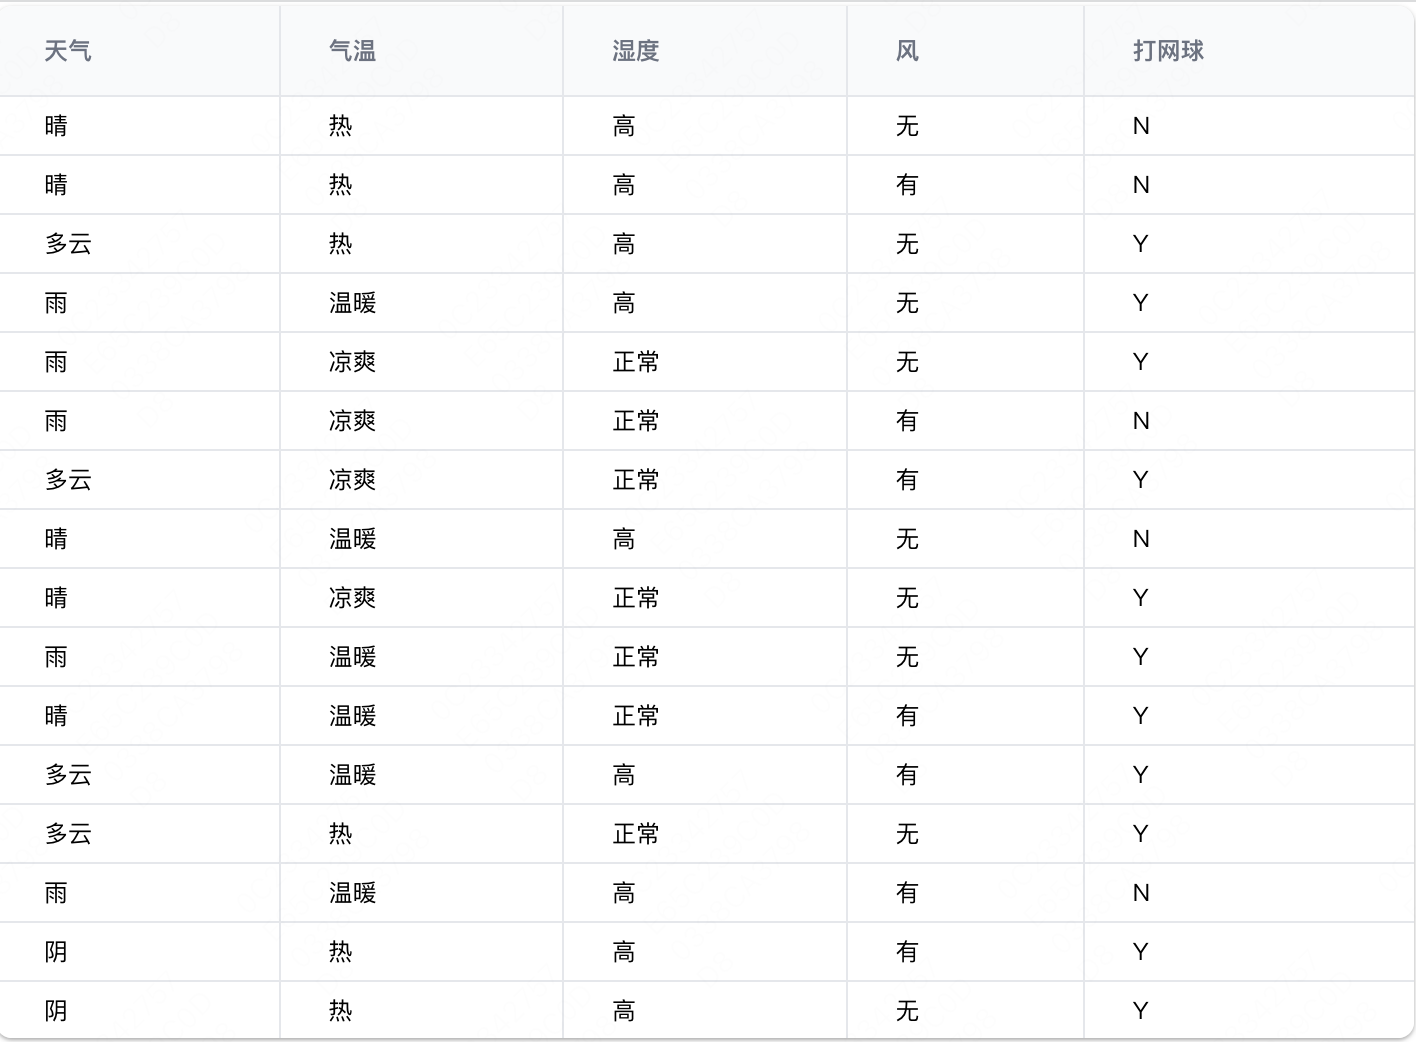
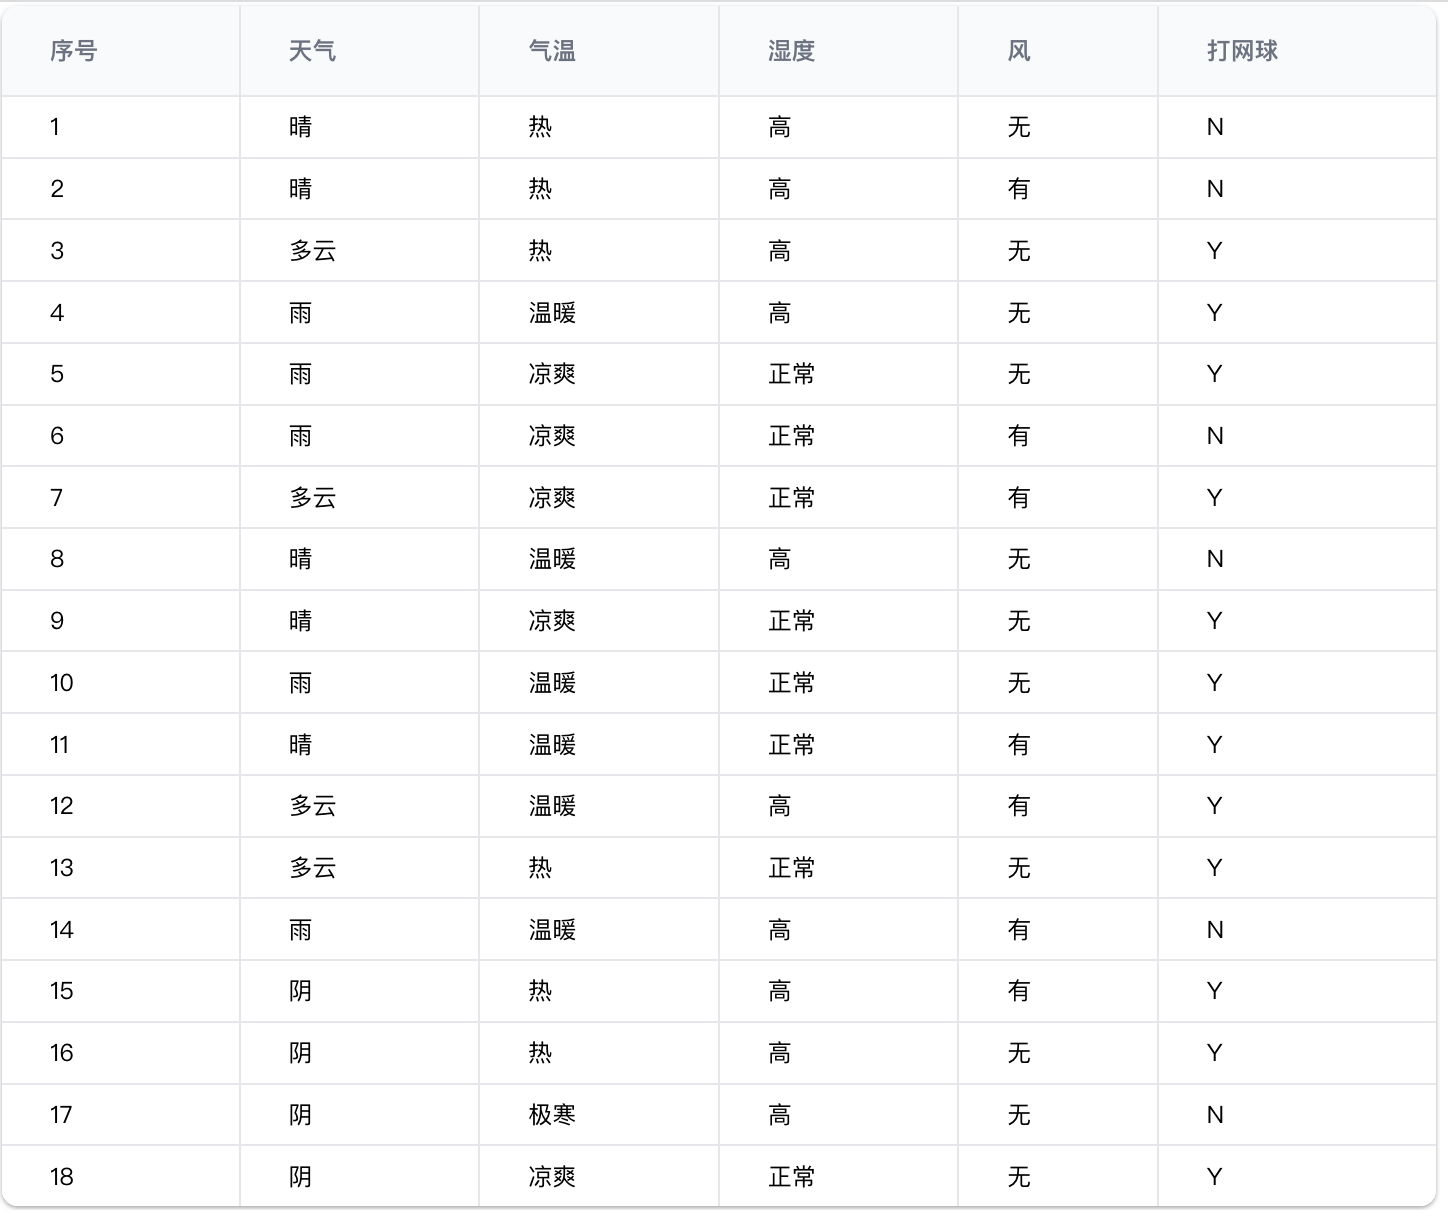
feat: 完善决策树分享内容

diff --git a/src/A-Star寻路/src/modules/calculate.js b/src/A-Star寻路/src/modules/calculate.js
@@ -14,7 +14,7 @@ export default {
         const closedList = [];
         const tempNodeMap = new Map();
         const GOAL_ID = makeId(goal.x, goal.y) //终点的唯一值
-        let minNode, tempg, tempNode;
+        let minNode, temp, tempNode;
         openList.push(new Point(null, start.x, start.y)); //追加启始点
         while (openList.length) {
             minNode = getMinNode(openList); //取最优点
@@ -24,12 +24,12 @@ export default {
                     const id = makeId(x, y); //获取临点ID
                     if (tempNodeMap.has(id)) { //如果存在此点
                         tempNode = tempNodeMap.get(id);
-                        tempg = minNode.g + costCalculation(tempNode, minNode, calculation); //计算当前点到此临点的G值
+                        temp = minNode.g + costCalculation(tempNode, minNode, calculation); //计算当前点到此临点的G值
                         //如果此G值小于此临点的G值那么把这个临点抢过来。。。然后重新初始化一些参数
-                        if (tempg < tempNode.g) {
+                        if (temp < tempNode.g) {
                             tempNode.p = minNode;
-                            tempNode.g = tempg;
-                            tempNode.f = tempg + tempNode.h;
+                            tempNode.g = temp;
+                            tempNode.f = temp + tempNode.h;
                         }
                     } else { //如果没有查过
                         //创建点对象.放到openList表.放到关联组

diff --git a/src/ID3决策树/src/utils/tree.js b/src/ID3决策树/src/utils/tree.js
@@ -80,7 +80,7 @@ const calcDecisionTree = (columns, rows, tree) => {
             const { entropys, group } = calcSelectEntropy(rows, index);
             // 计算信息增益
             const gain = config.allEntropy - entropys;
-            console.log('%s，信息增益', columns[index], gain);
+            console.info('%s，信息增益', columns[index], gain);
             if (gain > maxGain) {
                 maxGain = gain;
                 maxGroup = group;
@@ -100,7 +100,7 @@ const calcDecisionTree = (columns, rows, tree) => {
                 console.log(key)
                 if (vo.size === 1) {//结论已经单一化
                     child.isOpen = vo.has('Y');
-                    console.log(`${maxKey}->结论单一化`, key);
+                    console.info(`${maxKey}->结论单一化`, key);
                 } else {
                     const nextChild = {};
                     child.children = [nextChild];

diff --git a/src/A-Star寻路/src/modules/tools.js b/src/A-Star寻路/src/modules/tools.js
@@ -6,7 +6,7 @@ const OFF_SET_POINTS = [[-1, -1], [-1, 0], [-1, 1], [0, -1], [0, 1], [1, -1], [1
  * @param {*} goal
  * @returns
  */
-const numpySum = (node, goal) => {
+const bumpySum = (node, goal) => {
     const dx = Math.abs(node.x - goal.x);
     const dy = Math.abs(node.y - goal.y);
     return Math.max(dx, dy);
@@ -75,7 +75,7 @@ export const costCalculation = (node, goal, type = false) => {
         case 'euclidean':
             return euclidean(node, goal);
         default:
-            return numpySum(node, goal);
+            return bumpySum(node, goal);
     }
 }
 

diff --git a/src/ID3决策树/src/Main.js b/src/ID3决策树/src/Main.js
@@ -8,10 +8,14 @@ import {
 import createTree from './utils/tree.js';
 let isTree = false;
 const createGrid = () => {
+    const data = JSON.parse(JSON.stringify(dataSource));
     const grid = new Grid({
-        columns,
-        data: dataSource,
-        height: 516
+        columns: ['序号', ...columns],
+        data: data.map((vo, index) => {
+            vo.unshift(index+1);
+            return vo;
+        }),
+        height: 600
     });
     grid.render(document.getElementById('grid'));
 };

diff --git a/src/ID3决策树/index.html b/src/ID3决策树/index.html
@@ -26,7 +26,7 @@
             display: flex;
             flex-direction: row;
             width: 100%;
-            height: 520px;
+            height: 610px;
             justify-content: space-between;
             position: relative;
             overflow: hidden;
